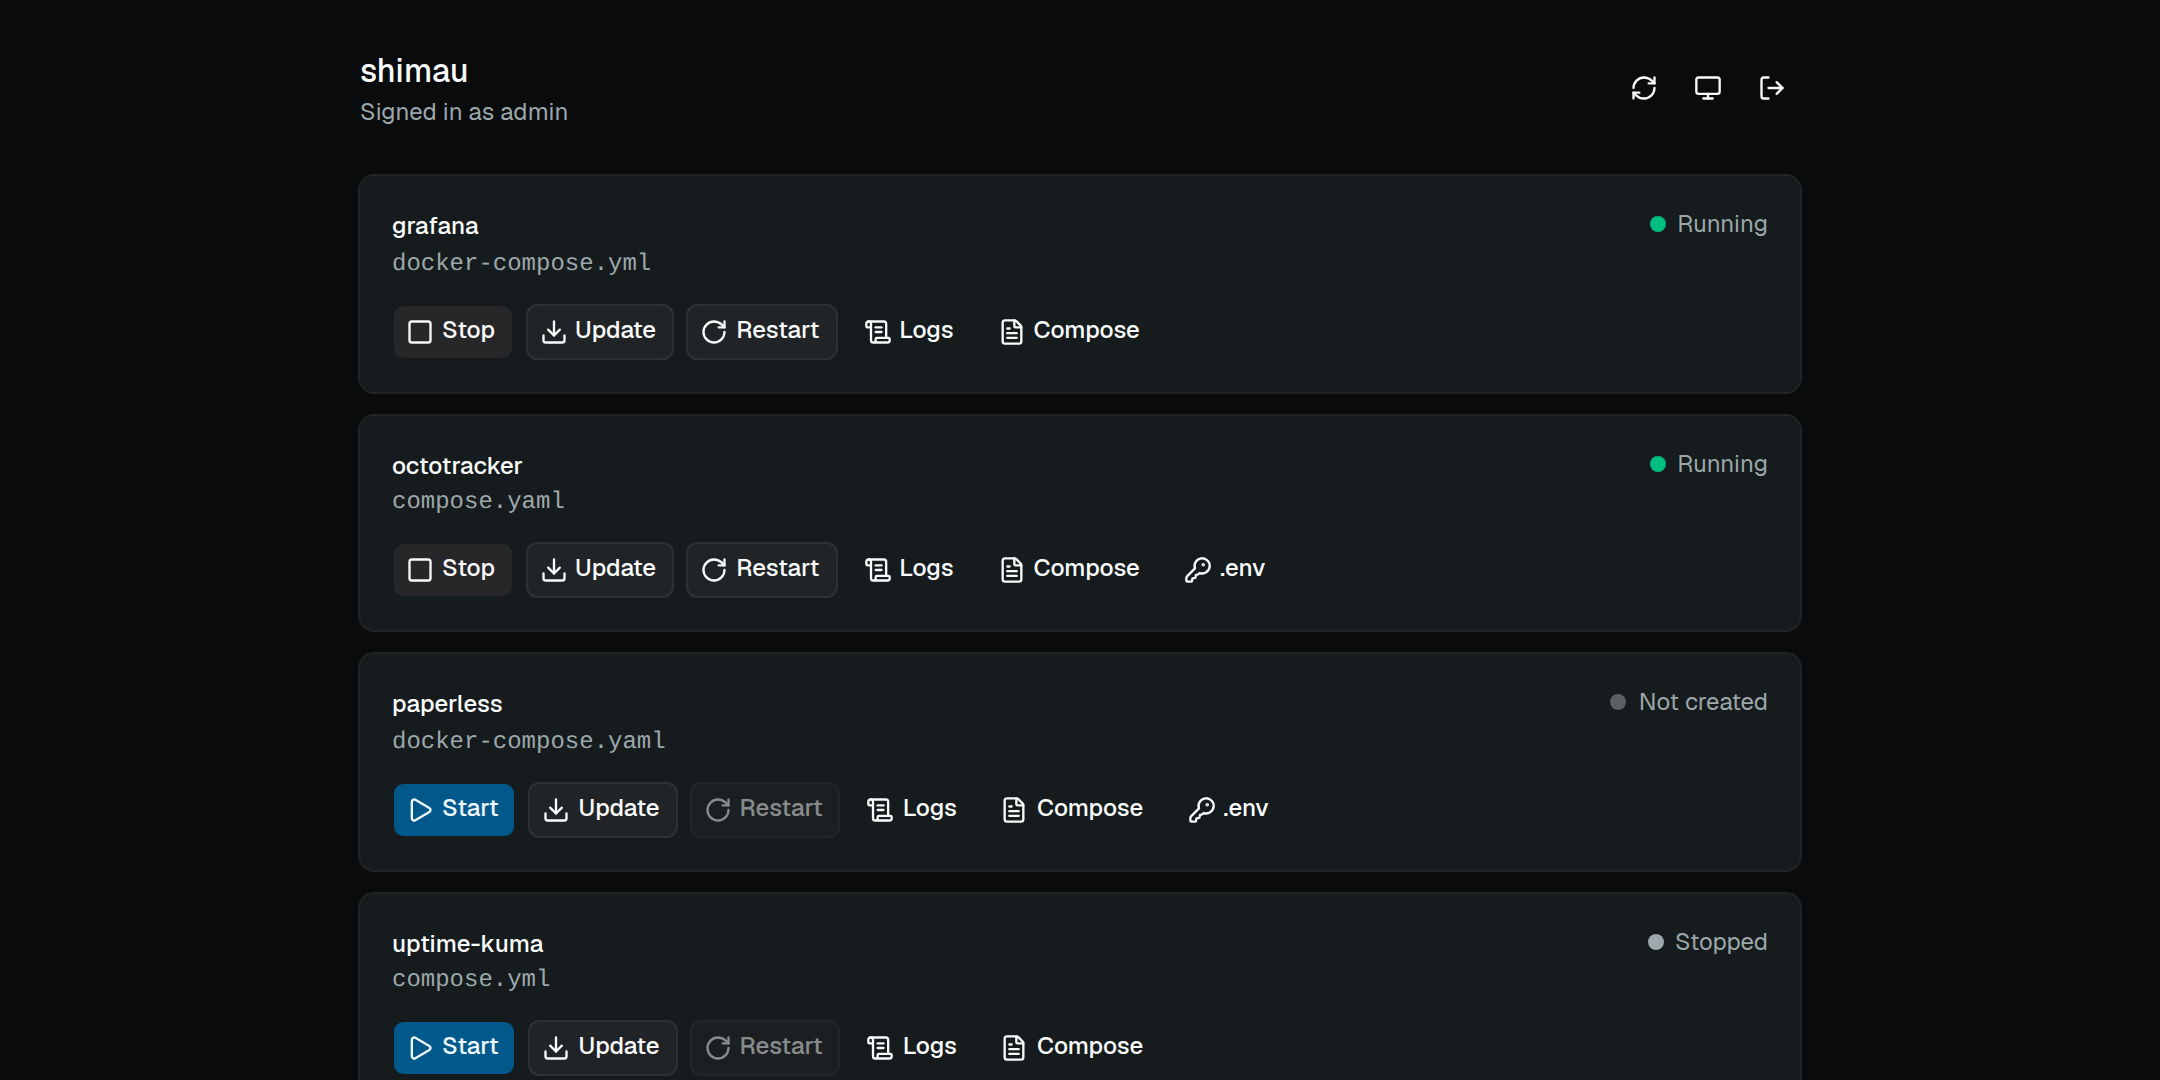
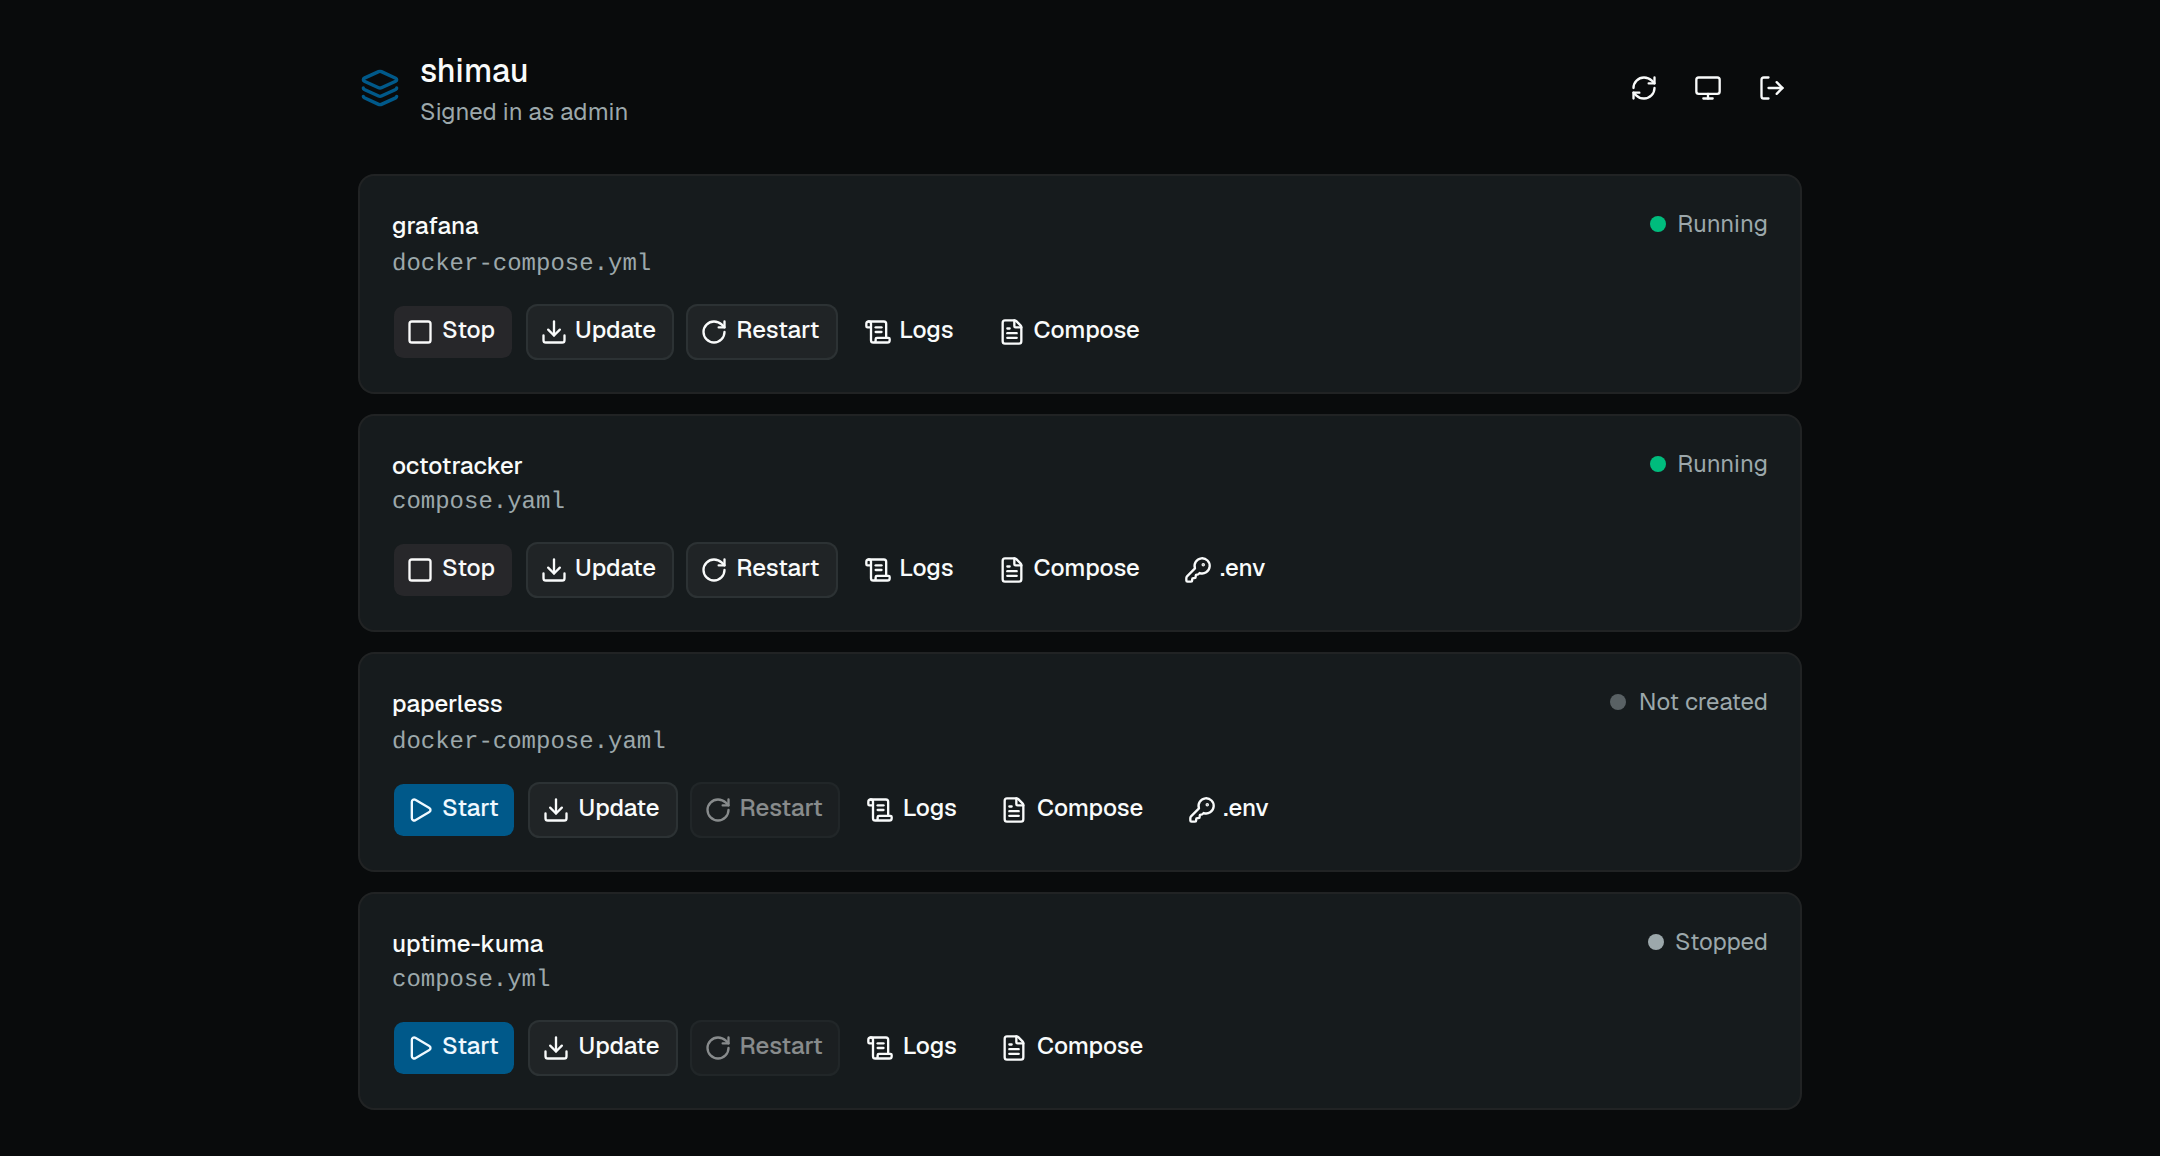
feat: give shimau a mark
lucide's `layers`, in the app's own --primary. It appears as a bare
glyph on the dashboard header and the login card, and as a tile in the
favicon and the README logo.

`layers` rather than the more obvious `container`: shimau manages
projects, not individual containers, so an icon reading "one container"
would contradict the first design principle. It also survives 16px in a
browser tab, where `boxes` turns to mush and `archive` — closer to the
name — reads as cold storage rather than something running.

The tile is #0069a8, the sRGB of oklch(0.5 0.134 242.749), so the
favicon is the same blue as the app instead of one that looks close. An
SVG cannot read a CSS variable, so the skill records where the hex came
from.

The README gains the logo and a line on the name: しまう, to put away —
which is the product, given the filesystem owns the stacks and shimau
owns nothing. The dashboard screenshot is re-shot so it matches the app,
and its clip now measures the content instead of guessing a height.

Claude-Session: https://claude.ai/code/session_01S84f5h3ZuU3GLWgWY5U3Xe

diff --git a/frontend/src/components/dashboard.tsx b/frontend/src/components/dashboard.tsx
@@ -1,6 +1,6 @@
 import * as React from "react"
 import { useQueryClient } from "@tanstack/react-query"
-import { LogOutIcon, RefreshCwIcon } from "lucide-react"
+import { LayersIcon, LogOutIcon, RefreshCwIcon } from "lucide-react"
 import { toast } from "sonner"
 
 import { LogsDialog } from "@/components/logs-dialog"
@@ -78,11 +78,14 @@ export function Dashboard({
   return (
     <div className="mx-auto flex min-h-svh w-full max-w-3xl flex-col gap-6 p-6">
       <header className="flex items-center justify-between gap-4">
-        <div>
-          <h1 className="font-medium">shimau</h1>
-          <p className="text-xs text-muted-foreground">
-            Signed in as {identity.username}
-          </p>
+        <div className="flex items-center gap-2.5">
+          <LayersIcon className="size-5 shrink-0 text-primary" aria-hidden />
+          <div>
+            <h1 className="font-medium">shimau</h1>
+            <p className="text-xs text-muted-foreground">
+              Signed in as {identity.username}
+            </p>
+          </div>
         </div>
         <div className="flex items-center gap-1">
           <Button

diff --git a/frontend/src/components/login-form.tsx b/frontend/src/components/login-form.tsx
@@ -1,4 +1,5 @@
 import * as React from "react"
+import { LayersIcon } from "lucide-react"
 
 import { Button } from "@/components/ui/button"
 import { Card, CardContent, CardHeader, CardTitle } from "@/components/ui/card"
@@ -43,7 +44,10 @@ export function LoginForm({
     <div className="flex min-h-svh items-center justify-center p-6">
       <Card className="w-full max-w-sm">
         <CardHeader>
-          <CardTitle>shimau</CardTitle>
+          <CardTitle className="flex items-center gap-2.5">
+            <LayersIcon className="size-5 shrink-0 text-primary" aria-hidden />
+            shimau
+          </CardTitle>
         </CardHeader>
         <CardContent>
           <form onSubmit={submit} className="flex flex-col gap-4">

diff --git a/README.md b/README.md
@@ -1,9 +1,11 @@
+<img src="docs/media/logo.png" alt="" width="60">
+
 # shimau
 
 **A tiny, modern Docker Compose manager.**
 
 [![CI](https://github.com/dstmrk/shimau/actions/workflows/ci.yml/badge.svg)](https://github.com/dstmrk/shimau/actions/workflows/ci.yml)
-[![Image](https://img.shields.io/badge/ghcr.io-dstmrk%2Fshimau-0284c7)](https://github.com/dstmrk/shimau/pkgs/container/shimau)
+[![Image](https://img.shields.io/badge/ghcr.io-dstmrk%2Fshimau-0069a8)](https://github.com/dstmrk/shimau/pkgs/container/shimau)
 [![License: MIT](https://img.shields.io/badge/license-MIT-blue)](LICENSE)
 
 shimau gives you a web UI for the Compose projects already sitting on your
@@ -174,6 +176,10 @@ the CLI but not a running daemon. Without the CLI they skip themselves.
 it next.
 
 ## Why it exists
+
+The name is しまう — Japanese for putting something away, stowing it where it
+belongs. That is the job: your Compose projects, tidy and reachable, owned by
+the filesystem rather than by shimau.
 
 Dockge had the right core idea: a file-based, Compose-focused UI that does not
 try to replace the whole Docker administration ecosystem. shimau keeps that

diff --git a/.claude/skills/frontend-patterns/SKILL.md b/.claude/skills/frontend-patterns/SKILL.md
@@ -36,6 +36,23 @@ the theme in an app full of editors is a surprise, not a feature.
 Delete a generated component that nothing imports. Unused UI primitives are
 bundle weight and lint noise.
 
+## The mark
+
+lucide's `layers`, in the app's own `--primary`. It sits in the dashboard
+header and on the login card as a bare glyph with `text-primary`, like every
+other icon; the tile version is only for the favicon
+(`frontend/public/shimau.svg`) and the README logo.
+
+`layers` over the more obvious `container`: shimau manages *projects*, not
+individual containers, and an icon that says "one container" would contradict
+the first design principle. It also survives 16px in a browser tab, which
+`boxes` does not.
+
+The tile colour is `#0069a8` — the sRGB of `oklch(0.5 0.134 242.749)`, the
+`--primary` token in `frontend/src/index.css`. An SVG cannot read a CSS
+variable, so that hex is a copy; if the theme's primary ever changes, convert
+the new value rather than picking a blue that looks close.
+
 ## React 19 rules this codebase follows
 
 **Adjust state during render, not in an effect.** When a dialog's `stack` prop
